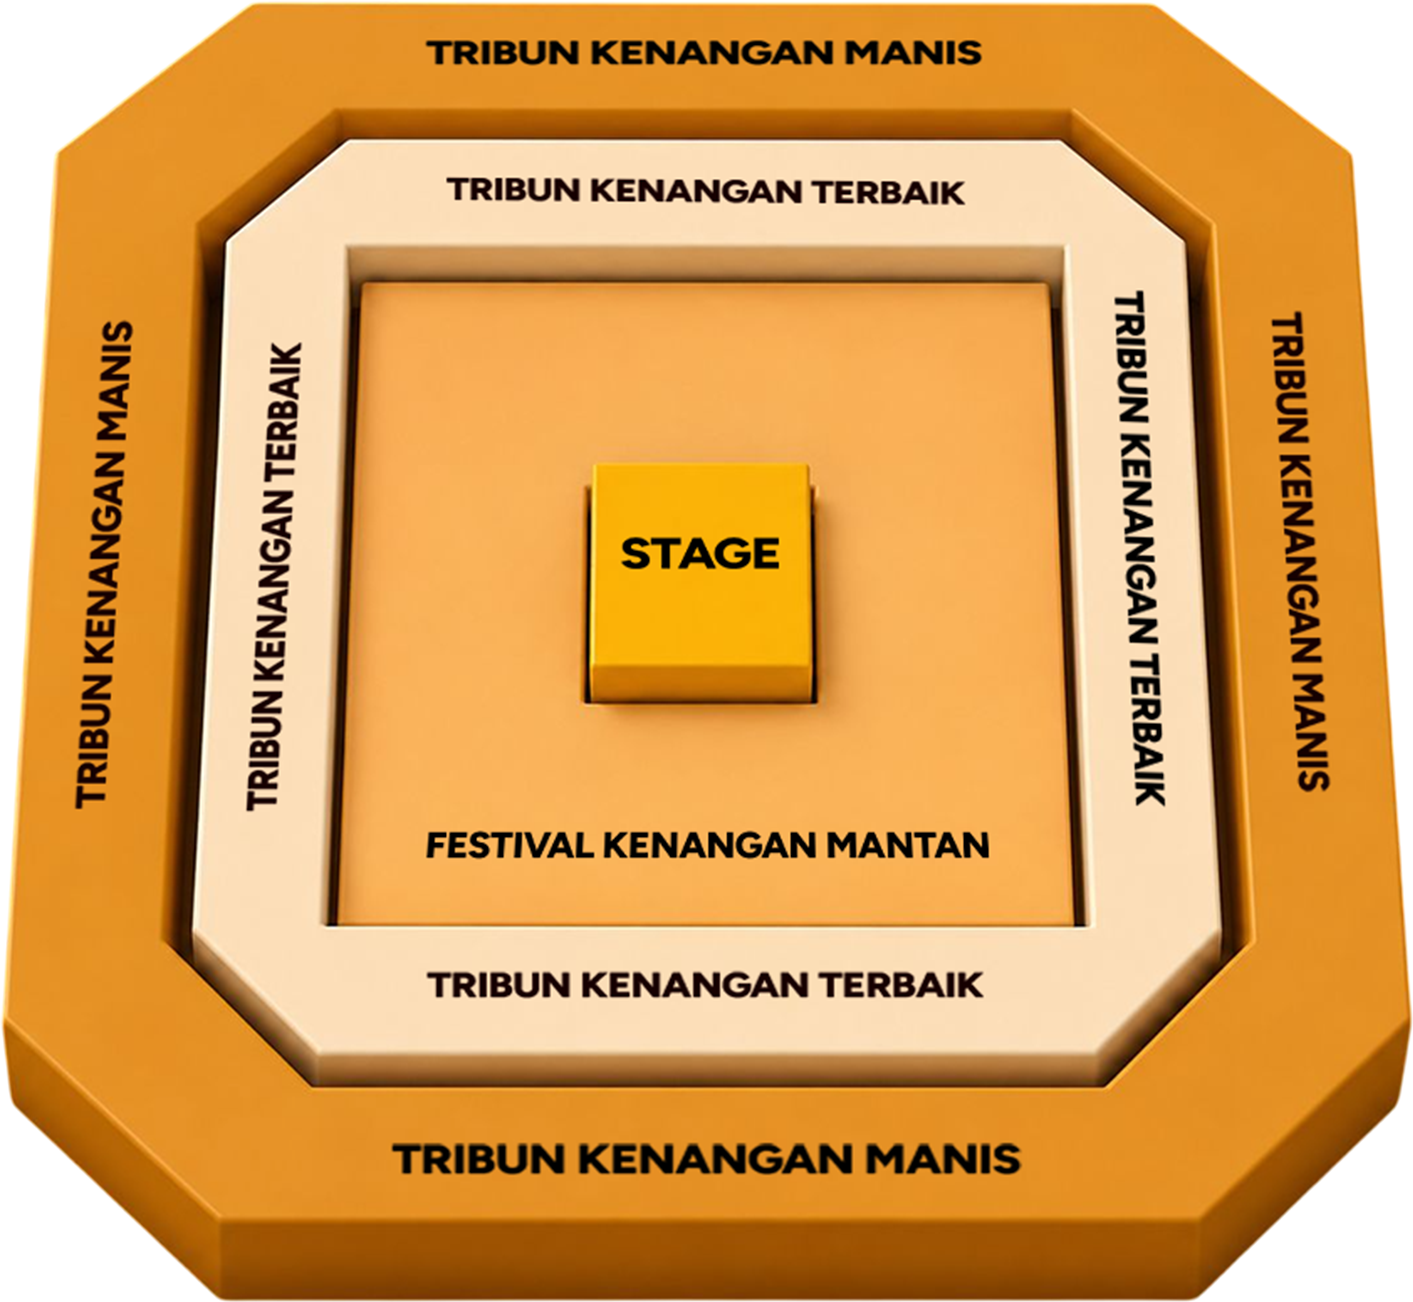
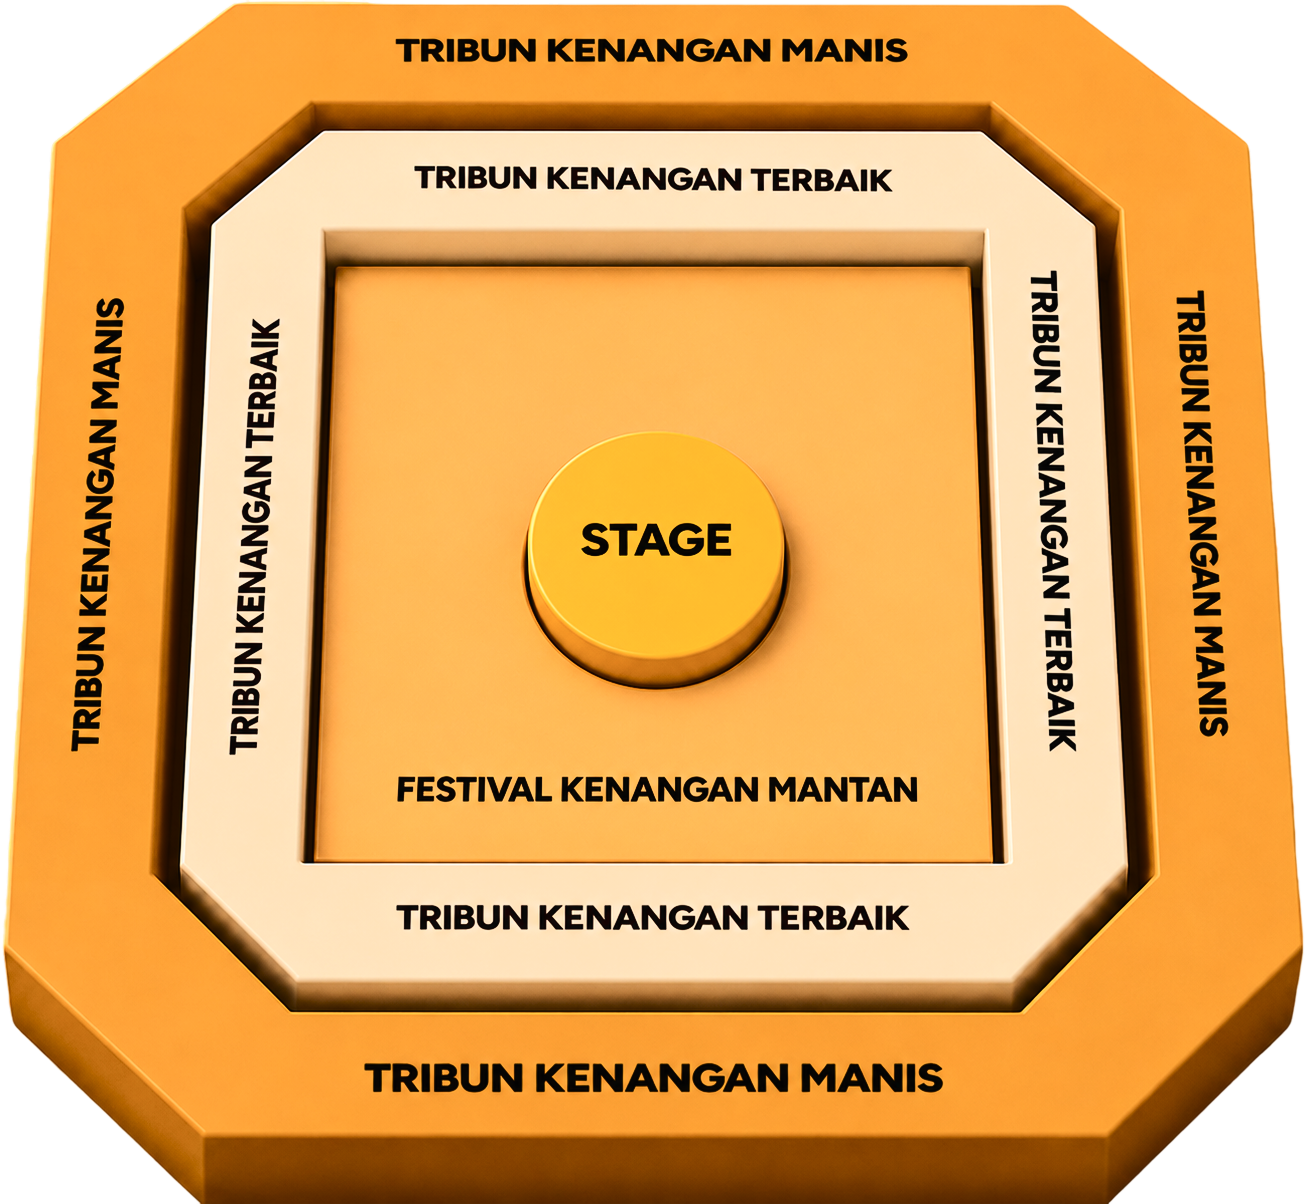
change assets

diff --git a/css/style.css b/css/style.css
@@ -251,24 +251,56 @@ body.mobile-nav-active #mobile-nav {
   height: 100vh;
   position: relative;
   overflow: hidden;
-  background: url(../img/bg_intro_laptop.png) center center;
-  background-size: cover;
+  background: #691116;
 }
 
 #intro .intro-container {
   position: absolute;
-  top: 50px;
+  top: 0;
   right: 0;
   bottom: 0;
   left: 0;
-  display: flex;
-  justify-content: center;
-  align-items: center;
-  text-align: center;
 }
 
-.intro-img {
-  width: 50vw;
+.intro-slider {
+  display: flex;
+  width: 200%;
+  height: 100%;
+  animation: introSliderLoop 8s ease-in-out infinite;
+}
+
+.intro-slide {
+  flex: 0 0 50%;
+  width: 50%;
+  height: 100%;
+}
+
+.intro-slide picture,
+.intro-slide img {
+  display: block;
+  width: 100%;
+  height: 100%;
+}
+
+.intro-slide img {
+  object-fit: cover;
+  object-position: center;
+}
+
+@keyframes introSliderLoop {
+  0%,
+  45% {
+    transform: translateX(0);
+  }
+
+  50%,
+  95% {
+    transform: translateX(-50%);
+  }
+
+  100% {
+    transform: translateX(0);
+  }
 }
 
 .section-header {
@@ -601,36 +633,20 @@ body.mobile-nav-active #mobile-nav {
 @media (max-width: 768px) {
   body {
     background-image: url(../img/bg_hp.png);
-    background-position: center top;
+    background-position: center center;
     background-size: cover;
-    background-attachment: fixed;
-  }
-}
-
-@media (max-width: 768px) and (min-aspect-ratio: 9/16) {
-  body {
-    background-size: 100% auto;
     background-attachment: fixed;
   }
 }
 
 @media (max-width: 768px){
-  body {
-    background-size: auto 100%;
-    background-attachment: fixed;
-  }
 
   #intro {
-    background: url(../img/bg_intro_hp.png) center center;
-    background-size: cover;
+    background: #691116;
   }
 
   #intro .intro-container {
     top: 0;
-  }
-
-  .intro-img {
-    width: 90%;
   }
 
   #countdown-container {

diff --git a/index.html b/index.html
@@ -51,9 +51,20 @@
 
   <section id="intro">
     <div class="intro-container">
-      <picture>
-        <img src="img/intro.png" class="intro-img" alt="intro" id="intro-img">
-      </picture>
+      <div class="intro-slider" aria-label="Kenangan Festival header images">
+        <div class="intro-slide">
+          <picture>
+            <source media="(max-width: 767px)" srcset="img/header_hp.png">
+            <img src="img/header_laptop.png" alt="Kenangan Festival header artwork">
+          </picture>
+        </div>
+        <div class="intro-slide">
+          <picture>
+            <source media="(max-width: 767px)" srcset="img/header_hp2.png">
+            <img src="img/header_laptop2.png" alt="Kenangan Festival header artwork alternate">
+          </picture>
+        </div>
+      </div>
     </div>
   </section>
 
@@ -123,8 +134,7 @@
         </div>
         <div class="row justify-content-center">
           <div class="col-lg-6">
-
-            <div class="ticket-detail-card ticket-detail-card-soldout mt-3">
+            <!-- <div class="ticket-detail-card ticket-detail-card-soldout mt-3">
               <div class="ticket-detail-header">
                 <span class="header-ticket-detail">
                   NORMAL SALE
@@ -155,7 +165,7 @@
               <div class="ticket-detail-body">
                 <button class="btn beli-btn ticket-open-button">BUY TICKET</button>
               </div>
-            </div>
+            </div> -->
 
             <div class="ticket-detail-card ticket-detail-card-4 ticket-detail-card-soldout mt-3">
               <div class="ticket-detail-header">
